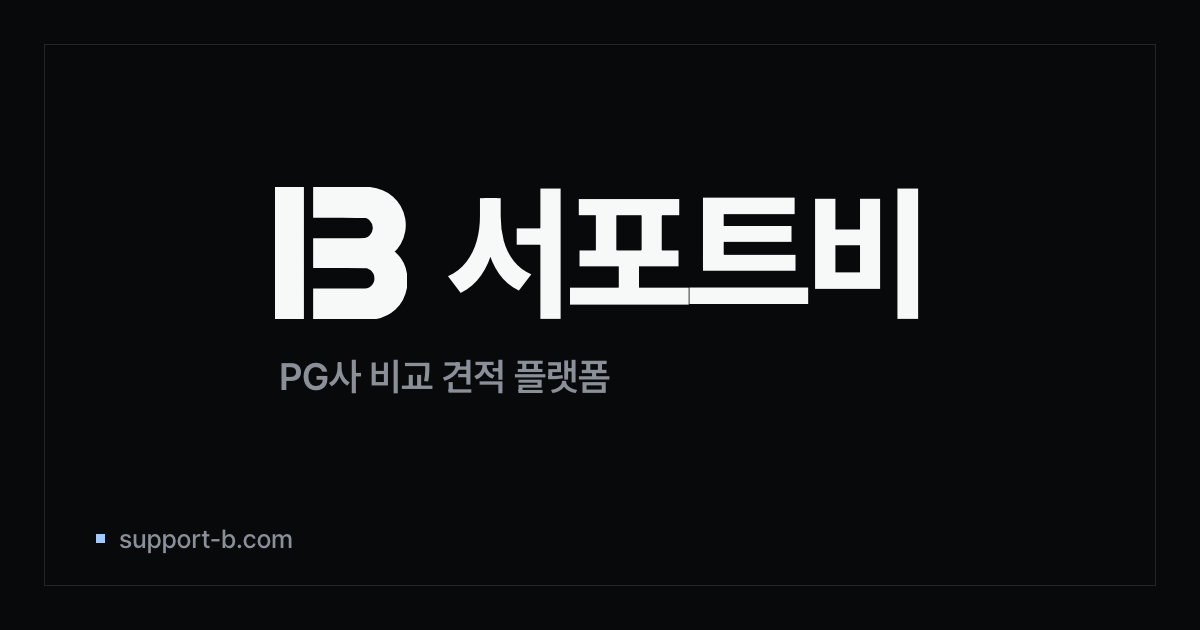
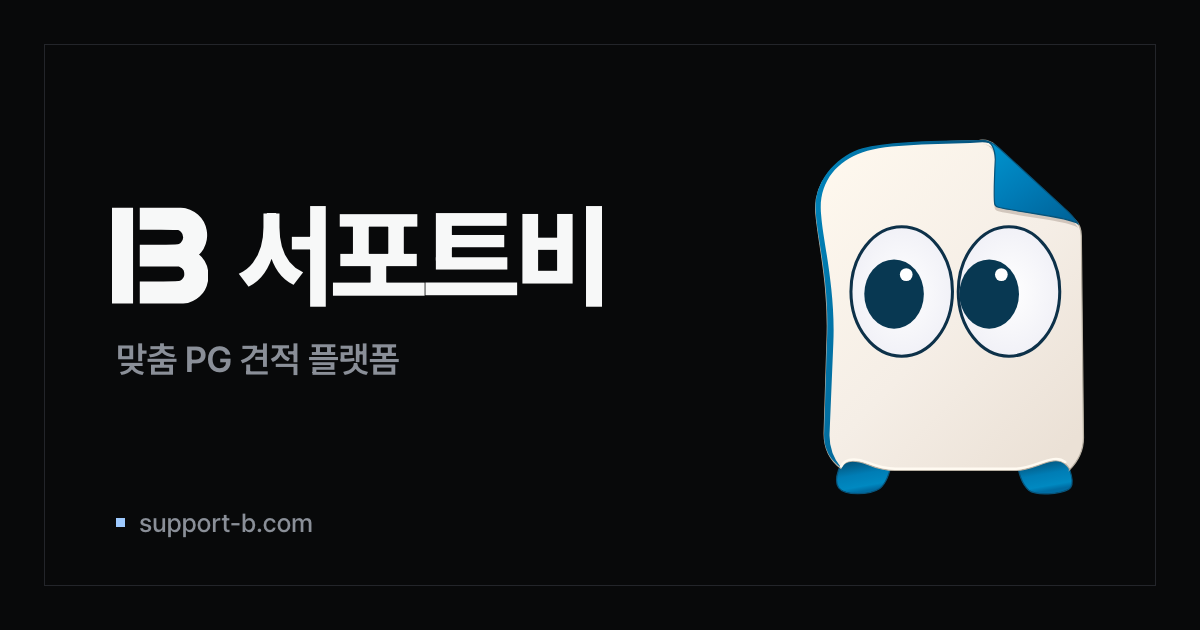
feat: 공유 미리보기 이미지에 모아를 넣는다 (v0.49.1.3) (#871)
app/opengraph-image.png(1200×630)의 기존 어두운 로고 카드를 유지하고
오른쪽에 서포트비 문서의 캐릭터 모아를 넣는다.

- 모아 그림은 docs 저장소의 리그(lib/chat/moa-art.ts)에서 뽑은 정적 SVG를
  scripts/assets/og-moa.svg로 넣었다. 출처와 다시 뽑는 방법은 파일 주석에 있다
- 로고·워드마크를 키우고 왼쪽에 모았다. 소개 문구는 사이트 제목과 같은
  '맞춤 PG 견적 플랫폼'으로 바꾸고 대체 텍스트도 맞췄다
- DESIGN.md의 글로우 금지 규칙에 따라 시안의 빛 번짐은 넣지 않았다.
  모아 그림 자체의 음영 그라데이션만 남는다

Changed region(s): [[0.0925, 0.2111, 0.925, 0.7841], [0.0925, 0.5429, 0.5242, 0.6333], [0.0617, 0.8143, 0.2775, 0.8746]]

diff --git a/scripts/generate-og-image.ts b/scripts/generate-og-image.ts
@@ -6,7 +6,9 @@
  * it via Playwright Chromium. Korean glyphs are rendered by the same font
  * binary used in production, so what you see in the OG card == what the app
  * uses. Dark Linear theme — solid near-black background, brand mark +
- * wordmark, no gradients/glow/blur.
+ * wordmark on the left, and the docs character 모아 on the right. No
+ * gradients/glow/blur beyond the shading inside 모아's own art
+ * (`scripts/assets/og-moa.svg`, exported from the docs repo's rig).
  *
  * apple-icon.png has its own separate manual pipeline — this script must
  * never write it.
@@ -20,6 +22,8 @@ import { BRAND_MARK_PATH } from '../lib/brand/brand-mark-path';
 
 const ROOT = path.resolve(__dirname, '..');
 const PRETENDARD = path.join(ROOT, 'public/fonts/PretendardVariable.woff2');
+
+const MOA_SVG = path.join(ROOT, 'scripts/assets/og-moa.svg');
 
 const OUT_OG = path.join(ROOT, 'app/opengraph-image.png');
 
@@ -44,7 +48,7 @@ function brandMarkSvg(size: number, color: string) {
   </svg>`;
 }
 
-function ogHtml(pretendard: string) {
+function ogHtml(pretendard: string, moa: string) {
   return `<!DOCTYPE html>
 <html lang="ko">
 <head>
@@ -75,9 +79,9 @@ function ogHtml(pretendard: string) {
   }
   .hero {
     position: absolute;
-    left: 50%;
+    left: 112px;
     top: 46%;
-    transform: translate(-50%, -50%);
+    transform: translateY(-50%);
     display: flex;
     flex-direction: column;
     align-items: flex-start;
@@ -86,7 +90,7 @@ function ogHtml(pretendard: string) {
     display: flex;
     flex-direction: row;
     align-items: center;
-    gap: 40px;
+    gap: 30px;
   }
   .mark svg {
     display: block;
@@ -94,7 +98,7 @@ function ogHtml(pretendard: string) {
   .wordmark {
     font-family: 'Pretendard', sans-serif;
     font-weight: 800;
-    font-size: 145px;
+    font-size: 112px;
     line-height: 1;
     letter-spacing: -0.04em;
     color: ${COLOR_ON_SURFACE};
@@ -104,15 +108,27 @@ function ogHtml(pretendard: string) {
   .tagline {
     font-family: 'Pretendard', sans-serif;
     font-weight: 600;
-    font-size: 38px;
+    font-size: 36px;
     letter-spacing: -0.02em;
     color: ${COLOR_ON_SURFACE_VARIANT};
-    margin: 28px 0 0 4px;
+    margin: 26px 0 0 4px;
+  }
+  .moa {
+    position: absolute;
+    right: 70px;
+    top: 88px;
+    width: 360px;
+    height: 450px;
+  }
+  .moa svg {
+    display: block;
+    width: 100%;
+    height: 100%;
   }
   .domain-row {
     position: absolute;
-    left: 96px;
-    bottom: 76px;
+    left: 116px;
+    bottom: 92px;
     display: flex;
     align-items: center;
     gap: 14px;
@@ -137,11 +153,13 @@ function ogHtml(pretendard: string) {
 
   <div class="hero">
     <div class="brand-row">
-      <div class="mark">${brandMarkSvg(132, COLOR_ON_SURFACE)}</div>
+      <div class="mark">${brandMarkSvg(96, COLOR_ON_SURFACE)}</div>
       <div class="wordmark">서포트비</div>
     </div>
-    <div class="tagline">PG사 비교 견적 플랫폼</div>
+    <div class="tagline">맞춤 PG 견적 플랫폼</div>
   </div>
+
+  <div class="moa">${moa}</div>
 
   <div class="domain-row">
     <div class="domain-dot"></div>
@@ -181,9 +199,10 @@ async function shoot({
 
 async function main() {
   const pretendard = await loadFontDataUri(PRETENDARD, 'font/woff2');
+  const moa = await fs.readFile(MOA_SVG, 'utf8');
 
   await shoot({
-    html: ogHtml(pretendard),
+    html: ogHtml(pretendard, moa),
     width: 1200,
     height: 630,
     out: OUT_OG,

diff --git a/CHANGELOG.md b/CHANGELOG.md
@@ -2,6 +2,12 @@
 
 All notable changes to this project will be documented in this file.
 
+## [0.49.1.3] - 2026-11-23
+
+### Changed
+
+- 링크를 공유할 때 보이는 미리보기 이미지(og:image) 오른쪽에 서포트비 문서의 캐릭터 모아를 넣었다. 이미지 속 소개 문구와 대체 텍스트도 사이트 제목과 같은 '맞춤 PG 견적 플랫폼'으로 바꿨다.
+
 ## [0.49.1.2] - 2026-11-23
 
 ### Fixed
